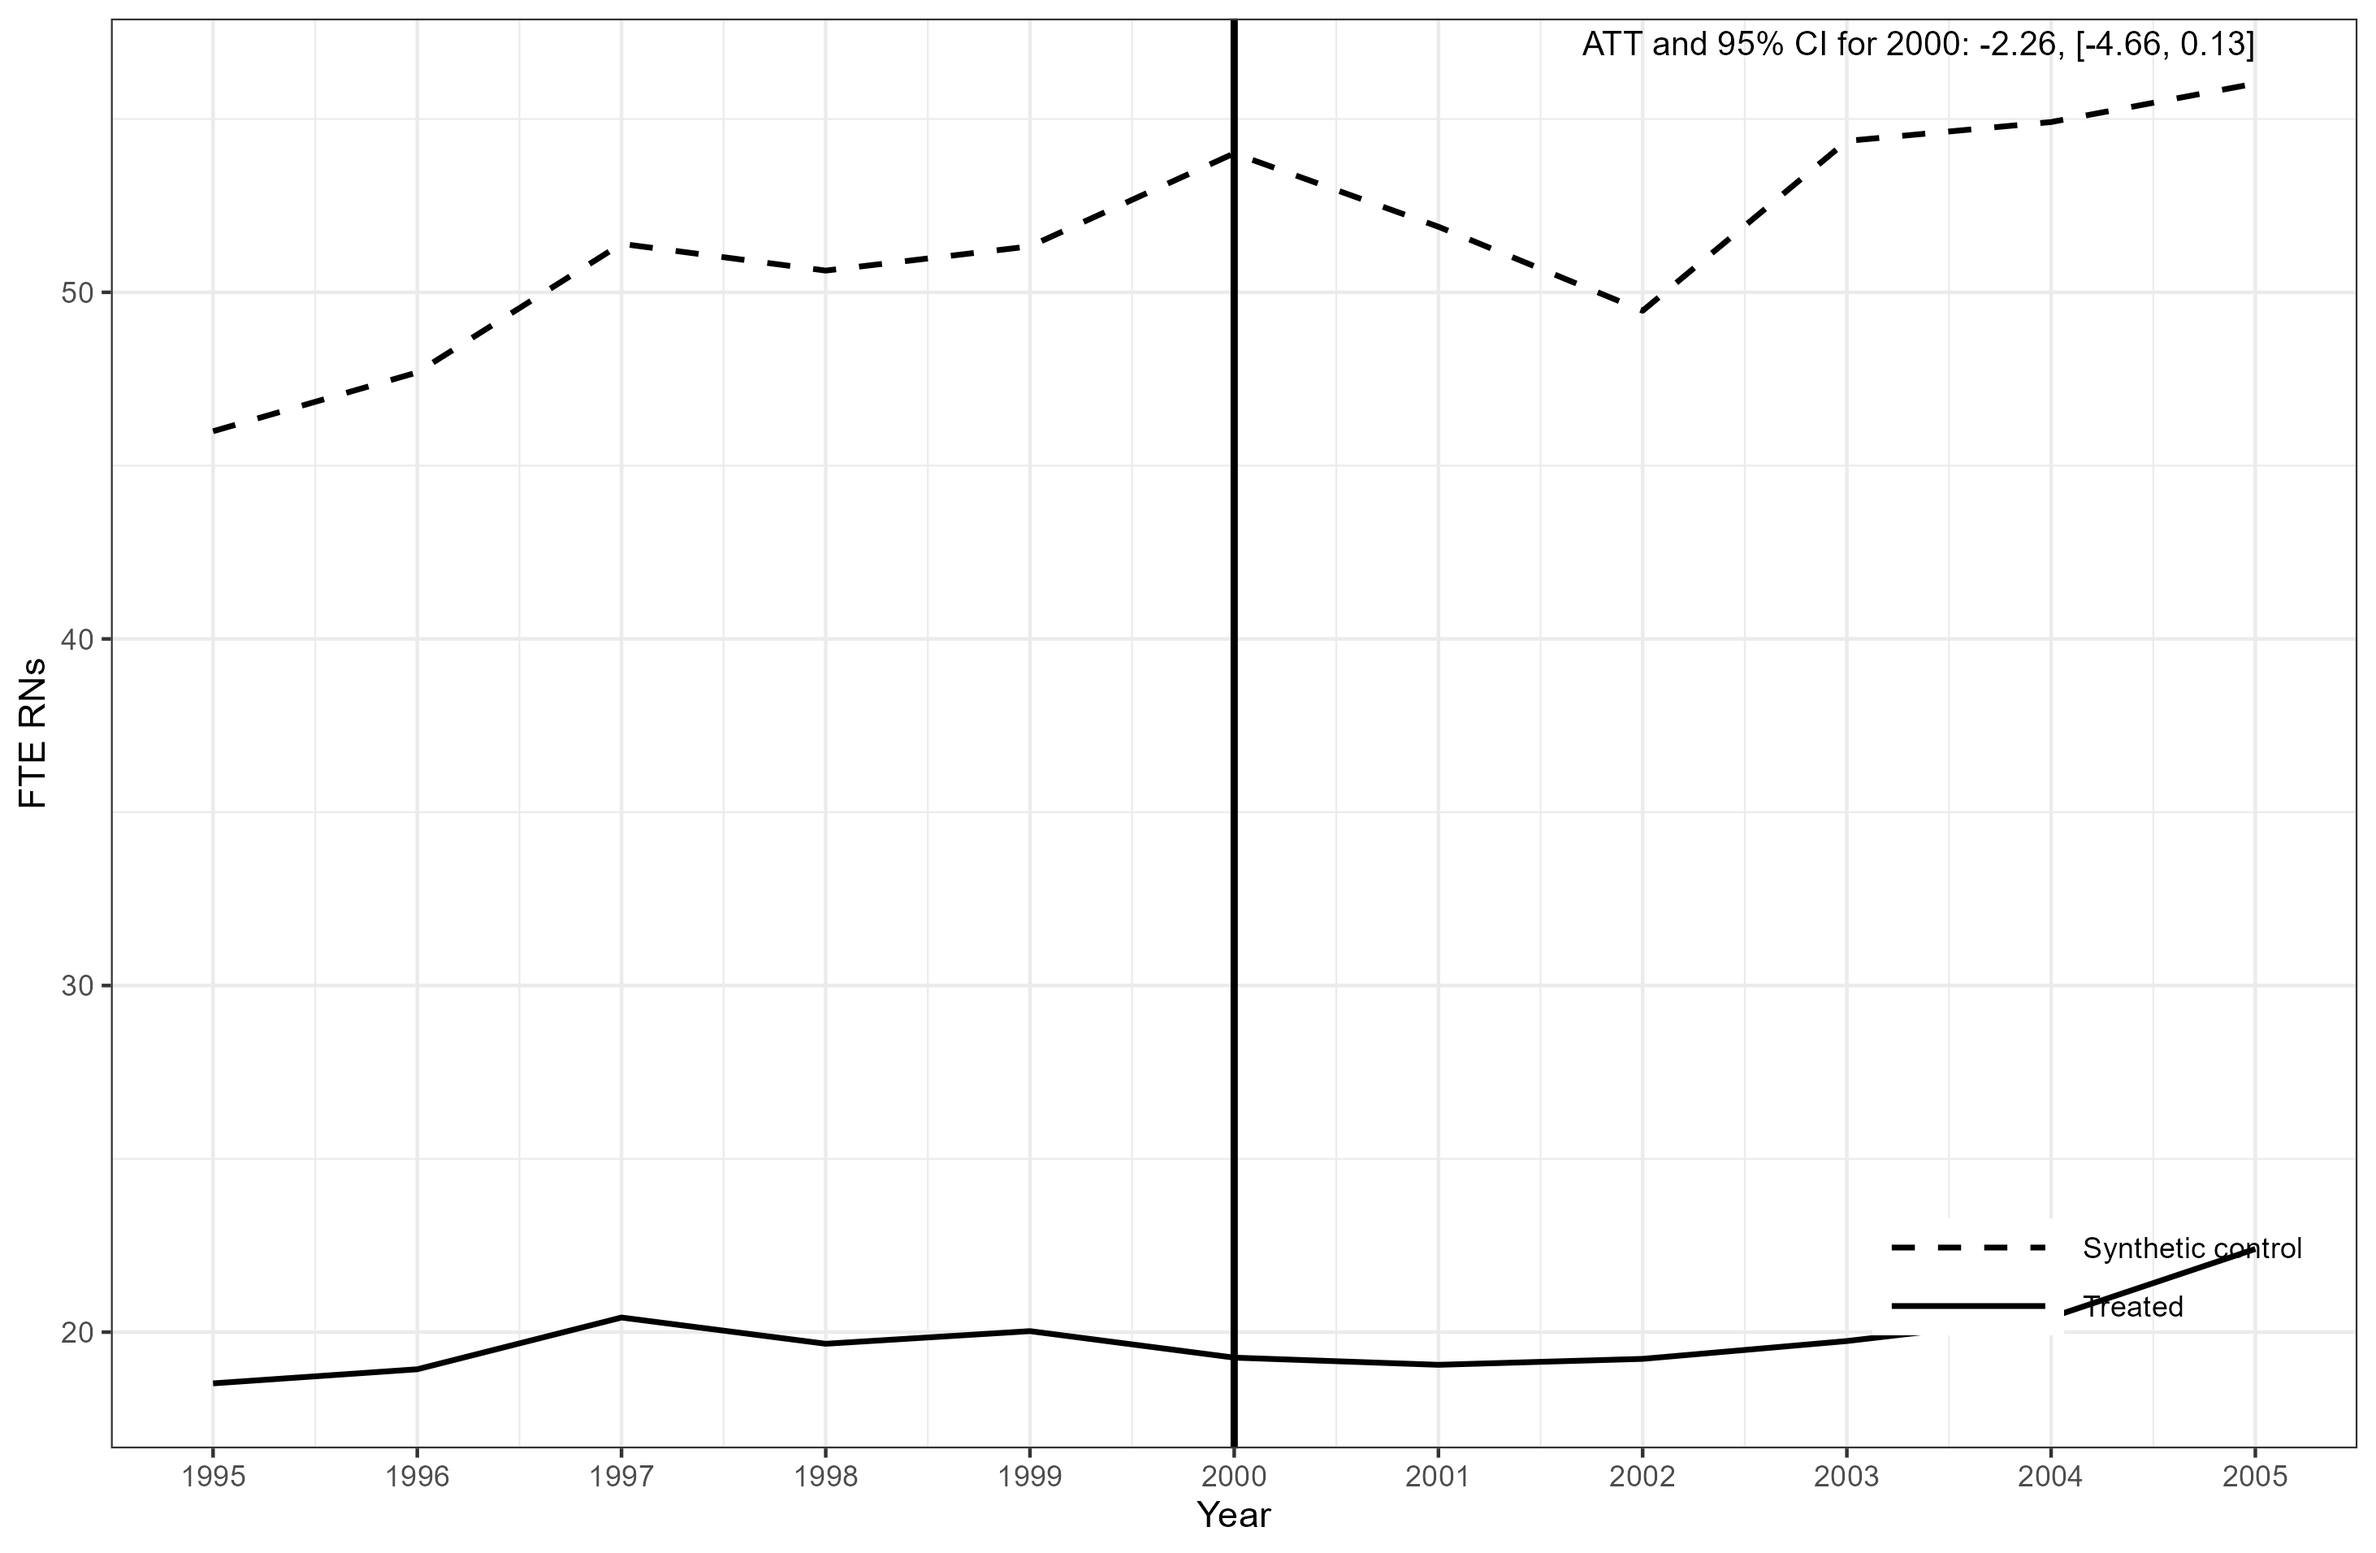
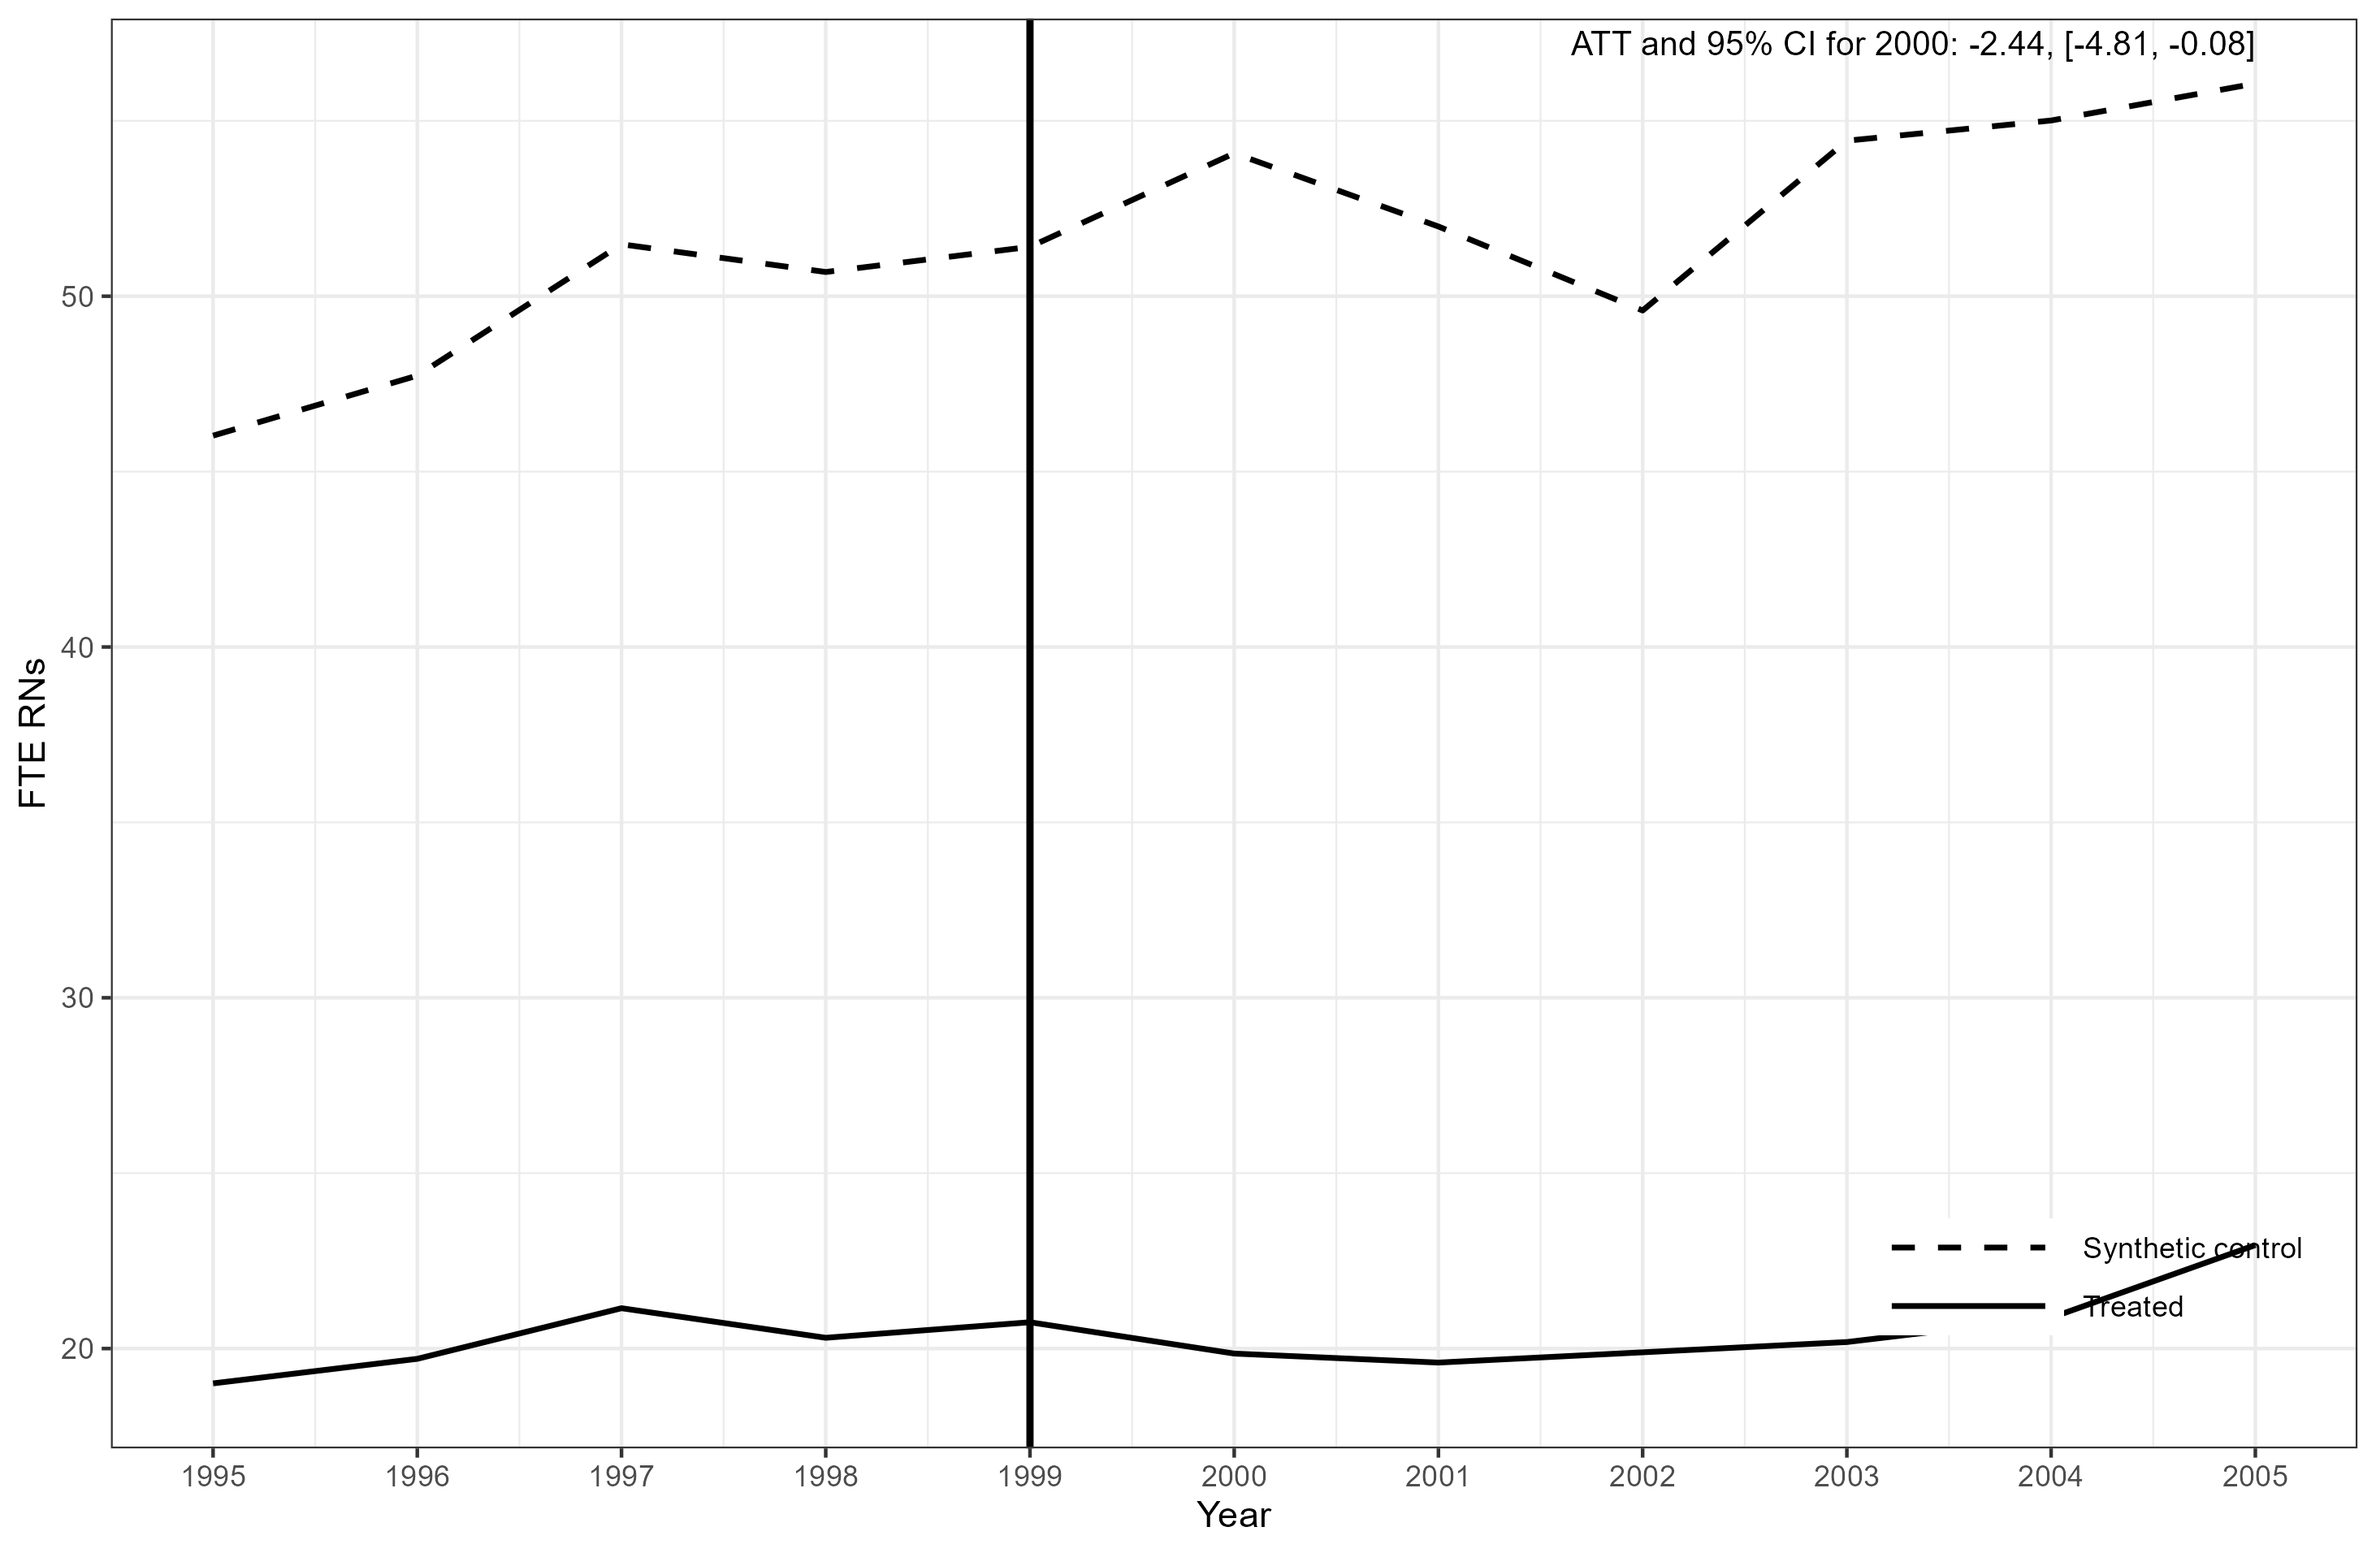
update results and code

diff --git a/results/desc_compare.tex b/results/desc_compare.tex
@@ -9,13 +9,13 @@
  & Pre & Post & Ever CAH & Never CAH\\
 \midrule
 Rural (%) & 66.21 & 69.8 & 67.84 & 9.04\\
-Bed size & 55.66 & 39.66 & 48.4 & 218.46\\
- & {}[21.00, 103.00] & {}[15.00, 83.00] & {}[18.00, 95.00] & {}[49.00, 448.00]\\
+Bed size & 56.11 & 40.49 & 49.03 & 203.88\\
+ & {}[24.00, 103.00] & {}[20.00, 83.00] & {}[21.00, 95.00] & {}[49.00, 448.00]\\
 Distance to nearest neighbor & 18.53 & 19.34 & 18.9 & 7.01\\
  & {}[2.51, 32.25] & {}[8.74, 31.85] & {}[6.90, 32.05] & {}[0.00, 18.92]\\
 \addlinespace
-Inpatient days & 10.91 & 8.1 & 9.64 & 51.93\\
- & {}[1.82, 26.20] & {}[1.12, 21.53] & {}[1.42, 24.30] & {}[7.53, 114.79]\\
+Inpatient days & 164.24 & 141.66 & 154.07 & 201.61\\
+ & {}[67.63, 296.81] & {}[45.11, 290.88] & {}[53.90, 294.72] & {}[115.98, 285.26]\\
 Margin & -0.06 & -0.06 & -0.06 & -0.01\\
  & {}[-0.25, 0.07] & {}[-0.24, 0.07] & {}[-0.25, 0.07] & {}[-0.15, 0.13]\\
 Closures & 8 & 11 & 19 & 273\\

diff --git a/results/sdid_overall.tex b/results/sdid_overall.tex
@@ -1,0 +1,22 @@
+\begin{table}[!h]
+\centering
+\caption{Overall ATT Estimates from SDID}
+\centering
+\begin{tabular}[t]{lcc}
+\toprule
+Outcome & ATT & 95\% CI\\
+\midrule
+Operating margin & 0.047 & {}[0.02, 0.08]\\
+Current ratio & 0.393 & {}[-0.09, 0.87]\\
+Net fixed assets & 0.049 & {}[-0.01, 0.11]\\
+Capital expenditures & 1.960 & {}[-0.84, 4.76]\\
+Total beds & -2.197 & {}[-5.09, 0.70]\\
+\addlinespace
+OB beds & -0.304 & {}[-0.56, -0.05]\\
+FTE RNs & -1.608 & {}[-2.98, -0.23]\\
+Total inpatient days & -7.722 & {}[-15.04, -0.40]\\
+Closure rate & -0.352 & {}[-0.63, -0.08]\\
+Merger rate & 0.102 & {}[-0.14, 0.35]\\
+\bottomrule
+\end{tabular}
+\end{table}
